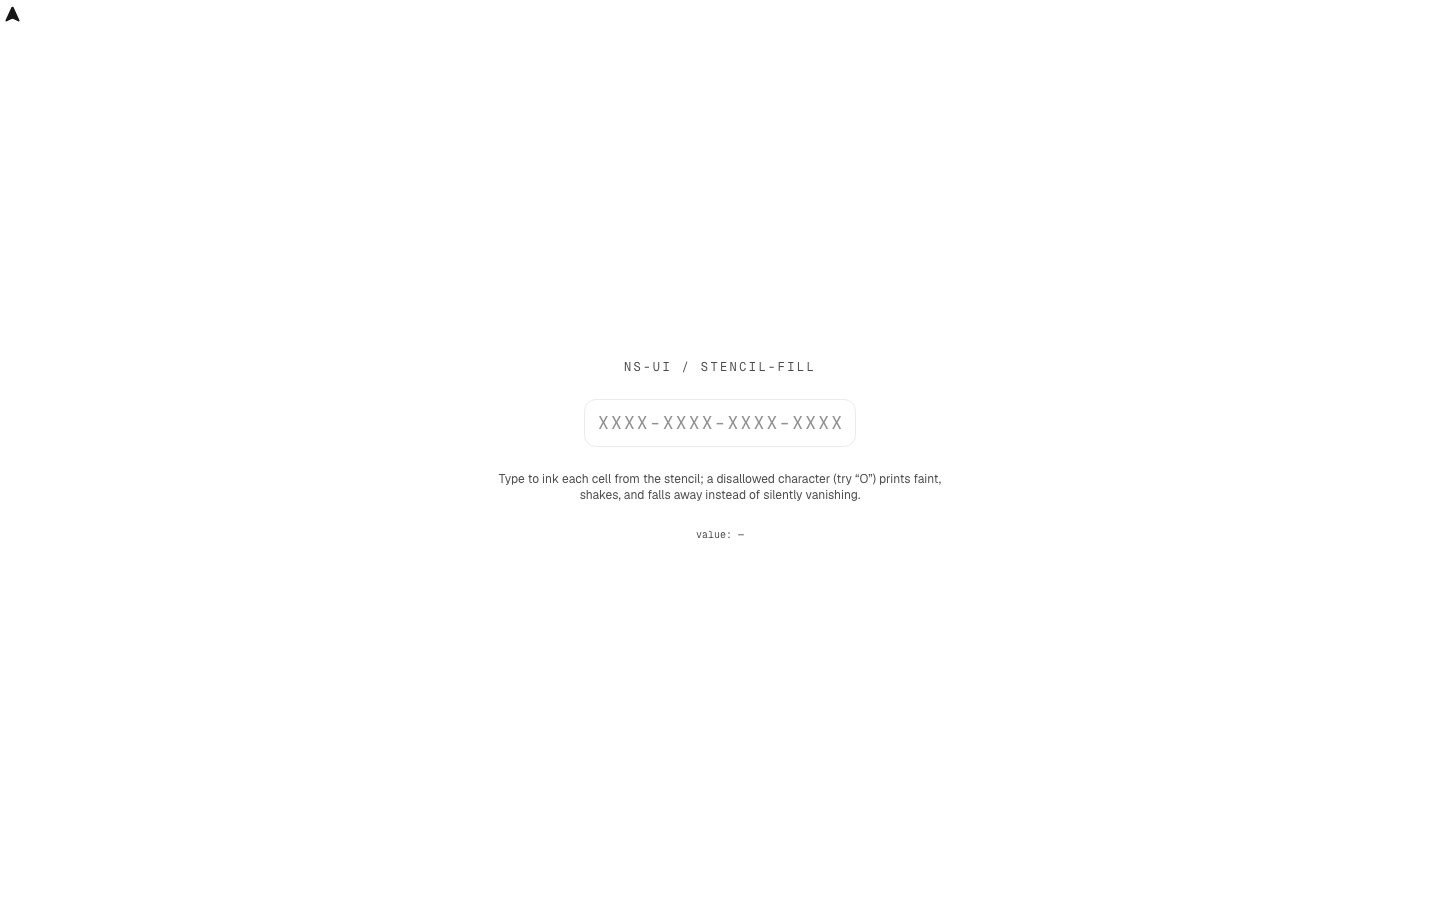
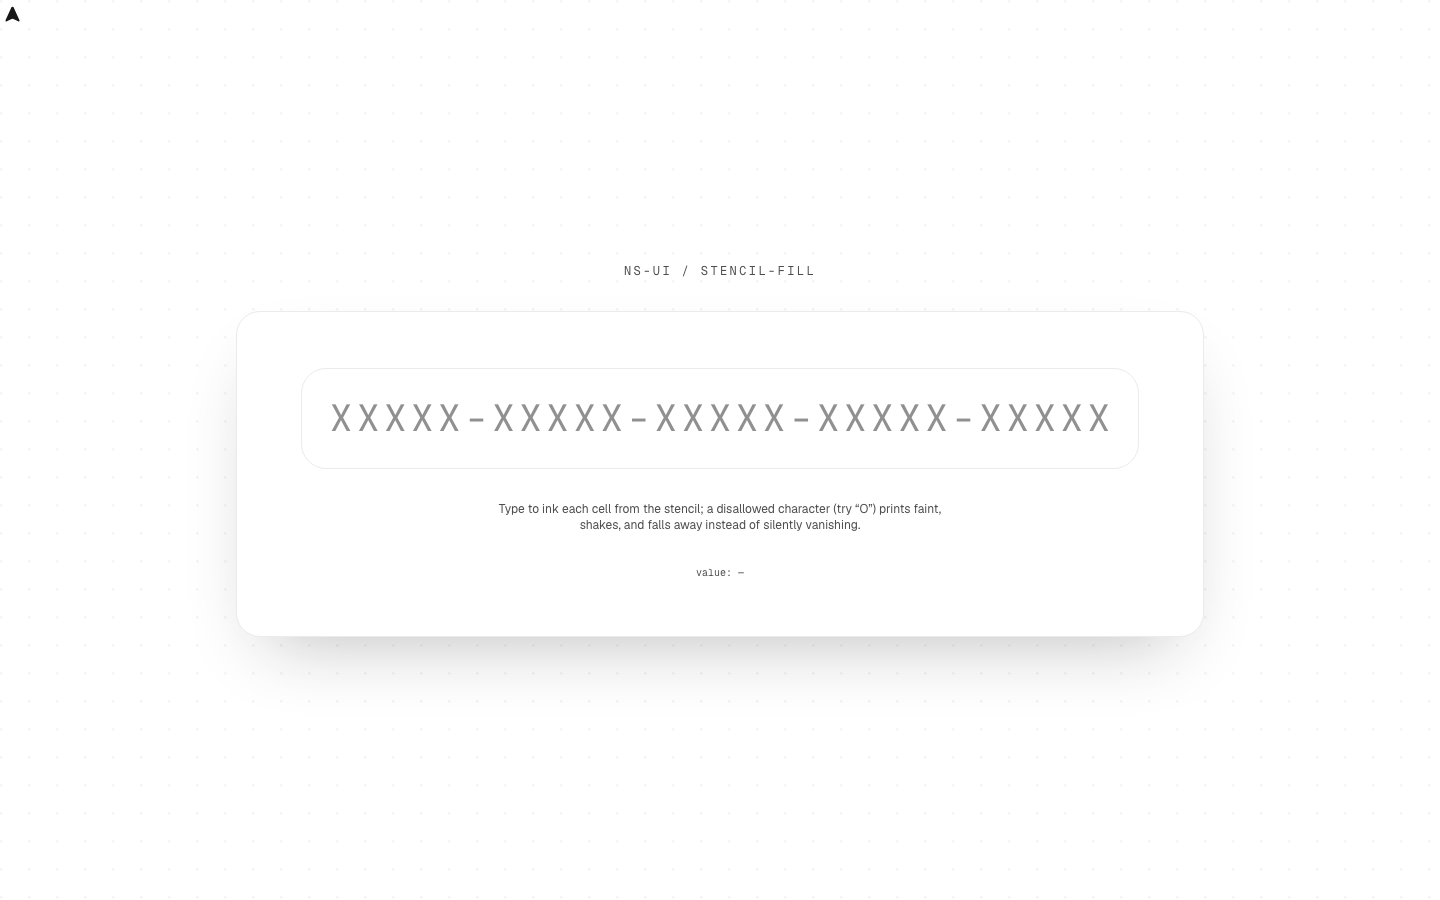
feat(stencil-fill): showpiece pass — 2.1x scale, product-key mask, dot-grid plaque
Scales as one unit off a --sf-size var; demo reframed as a centered plaque with
an SVG dot-grid behind it and a 5x5 license-key mask. Autoplay type descriptor
retimed so it self-demonstrates the ink/reject cycle at rest.

diff --git a/registry/core/stencil-fill/demo.tsx b/registry/core/stencil-fill/demo.tsx
@@ -3,11 +3,12 @@
 import { useState } from "react";
 import { StencilFill } from "./component";
 
-// License-key shaped mask (4 groups of 4) with the classic ambiguous-glyph
-// exclusion: 'O' is rejected so the signature reject beat (print at 40%
-// muted, spring-shake, fall away) has something to demonstrate on its own —
-// no pointer/keyboard input from a viewer required, autoplay's "type" mode
-// drives real key events at the hidden input.
+// Windows-style product-key mask (5 groups of 5) — the group shape reads as
+// "software license key" at a glance, richer than a plain freeform string.
+// 'O' is rejected so the signature reject beat (print at 40% muted,
+// spring-shake, fall away) has something to demonstrate on its own — no
+// pointer/keyboard input from a viewer required, autoplay's "type" mode
+// drives real key events at the hidden input (see meta.json).
 function validateLicenseChar(char: string): boolean {
   if (!/^[A-Za-z0-9]$/.test(char)) return false;
   return char.toUpperCase() !== "O";
@@ -17,26 +18,44 @@ export default function StencilFillDemo() {
   const [value, setValue] = useState("");
 
   return (
-    <div className="flex min-h-screen flex-col items-center justify-center gap-6 px-6 py-16">
-      <p className="font-mono text-xs uppercase tracking-[0.2em] text-ns-muted">ns-ui / stencil-fill</p>
+    <div className="relative flex min-h-screen flex-col items-center justify-center gap-8 overflow-hidden px-6 py-16">
+      <svg aria-hidden="true" className="pointer-events-none absolute inset-0 h-full w-full">
+        <defs>
+          <pattern id="sf-dotgrid" width="28" height="28" patternUnits="userSpaceOnUse">
+            <circle cx="1.4" cy="1.4" r="1.4" style={{ fill: "var(--border)" }} opacity="0.55" />
+          </pattern>
+        </defs>
+        <rect width="100%" height="100%" fill="url(#sf-dotgrid)" />
+      </svg>
 
-      <StencilFill
-        mask="XXXX-XXXX-XXXX-XXXX"
-        label="License key"
-        validate={validateLicenseChar}
-        autoComplete="off"
-        onValueChange={setValue}
-      />
-
-      <p className="max-w-md text-center text-xs text-ns-muted">
-        Type to ink each cell from the stencil; a disallowed character (try
-        &ldquo;O&rdquo;) prints faint, shakes, and falls away instead of
-        silently vanishing.
+      <p className="relative font-mono text-xs uppercase tracking-[0.2em] text-ns-muted">
+        ns-ui / stencil-fill
       </p>
 
-      <p aria-hidden="true" className="font-mono text-[10px] text-ns-muted">
-        value: {value || "—"}
-      </p>
+      <div
+        className="relative flex flex-col items-center gap-8 rounded-[1.5rem] border border-border bg-background px-12 py-14 sm:px-16"
+        style={{ boxShadow: "0 32px 70px -32px color-mix(in srgb, var(--foreground) 30%, transparent)" }}
+      >
+        <div style={{ "--sf-size": "2.35rem" } as React.CSSProperties}>
+          <StencilFill
+            mask="XXXXX-XXXXX-XXXXX-XXXXX-XXXXX"
+            label="Product license key"
+            validate={validateLicenseChar}
+            autoComplete="off"
+            onValueChange={setValue}
+          />
+        </div>
+
+        <p className="max-w-md text-center text-xs text-ns-muted">
+          Type to ink each cell from the stencil; a disallowed character (try
+          &ldquo;O&rdquo;) prints faint, shakes, and falls away instead of
+          silently vanishing.
+        </p>
+
+        <p aria-hidden="true" className="font-mono text-[10px] text-ns-muted">
+          value: {value || "—"}
+        </p>
+      </div>
     </div>
   );
 }

diff --git a/registry/core/stencil-fill/component.tsx b/registry/core/stencil-fill/component.tsx
@@ -297,7 +297,10 @@ export function StencilFill({
         {label}
       </label>
 
-      <div className="relative inline-flex h-12 items-center rounded-[12px] border border-border bg-background px-3">
+      <div
+        className="relative inline-flex h-[2.7em] items-center rounded-[0.67em] border border-border bg-background px-[0.67em]"
+        style={{ fontSize: "var(--sf-size, 1.125rem)" }}
+      >
         <input
           id={inputId}
           name={name}
@@ -321,7 +324,7 @@ export function StencilFill({
         <div
           aria-hidden="true"
           data-sf-glyphs
-          className="pointer-events-none flex items-center font-mono text-lg"
+          className="pointer-events-none flex items-center font-mono"
         >
           {tokens.map((t, i) => {
             if (t.kind === "sep") {
@@ -366,13 +369,13 @@ export function StencilFill({
 const CSS = `
 .ns-sf-input{ background: transparent; color: transparent; caret-color: transparent; border: none; padding: 0; font: inherit; outline: none; border-radius: inherit; transition: box-shadow 150ms ease-out; }
 .ns-sf-input:hover{ box-shadow: inset 0 0 0 1px color-mix(in srgb, var(--border), var(--foreground) 35%); }
-.ns-sf-input:focus-visible{ outline: 2px solid var(--ns-accent); outline-offset: 2px; box-shadow: none; }
+.ns-sf-input:focus-visible{ outline: 0.11em solid var(--ns-accent); outline-offset: 0.11em; box-shadow: none; }
 .ns-sf-cell{ display: inline-flex; align-items: center; justify-content: center; width: 1.2ch; text-align: center; }
 .ns-sf-glyph{ display: inline-block; min-width: 1ch; transition: color 90ms ease-out, opacity 90ms ease-out, font-weight 90ms ease-out; }
 .ns-sf-stencil{ color: var(--ns-muted); opacity: 0.62; font-weight: 400; }
 .ns-sf-ink{ color: var(--foreground); opacity: 1; font-weight: 600; }
 .ns-sf-sep{ color: var(--ns-muted); opacity: 0.62; }
-.ns-sf-caret{ position: absolute; left: -1px; top: 50%; width: 2px; height: 1.15em; transform: translateY(-50%); background: var(--ns-accent); border-radius: 1px; animation: ns-sf-blink 1s steps(1, jump-none) infinite; }
+.ns-sf-caret{ position: absolute; left: -1px; top: 50%; width: 0.11em; height: 1.15em; transform: translateY(-50%); background: var(--ns-accent); border-radius: 1px; animation: ns-sf-blink 1s steps(1, jump-none) infinite; }
 .ns-sf-reject{ position: absolute; inset: 0; display: flex; align-items: center; justify-content: center; color: var(--ns-muted); font-weight: 500; pointer-events: none; animation: ns-sf-reject-spring 560ms cubic-bezier(0.34, 1.56, 0.64, 1) forwards; }
 @keyframes ns-sf-blink{ 0%, 49%{ opacity: 1; } 50%, 100%{ opacity: 0; } }
 @keyframes ns-sf-reject-spring{
